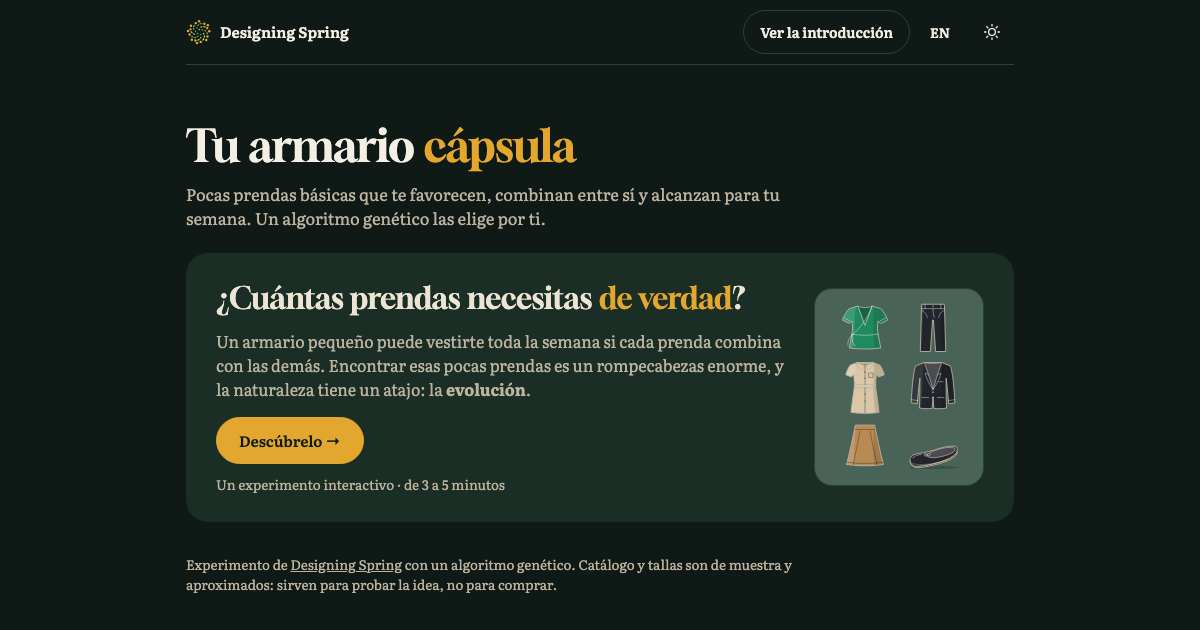
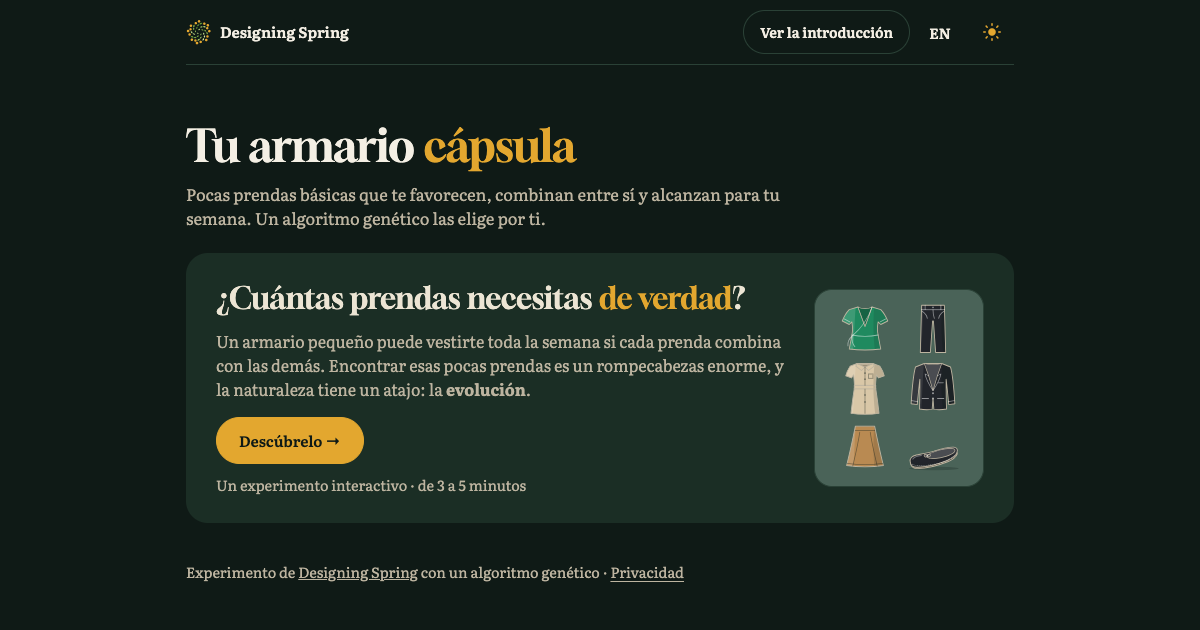
Add files via upload

diff --git a/algoritmo-genetico/vestido-mutante/index.html b/algoritmo-genetico/vestido-mutante/index.html
@@ -270,6 +270,23 @@ input[type=range]{width:100%;accent-color:var(--gold);min-height:44px}
   :root[data-dir="to-night"]::view-transition-new(root) { animation: wipe-right 1.75s cubic-bezier(.77, 0, .175, 1) both; }
   @keyframes wipe-left { from { clip-path: inset(0 100% 0 0); } to { clip-path: inset(0 0 0 0); } }
   @keyframes wipe-right { from { clip-path: inset(0 0 0 100%); } to { clip-path: inset(0 0 0 0); } }
+.priv-btn{background:none;border:0;padding:6px 0;font:inherit;color:inherit;text-decoration:underline;text-underline-offset:3px;cursor:pointer}
+.priv-btn:hover{color:var(--ink)}
+dialog.priv{max-width:min(34em,calc(100vw - 32px));border:1px solid var(--card-line);border-radius:18px;background:var(--card);color:var(--ink);padding:22px 22px 18px}
+dialog.priv::backdrop{background:rgba(0,0,0,.55)}
+.priv h3{margin:0 0 12px;font:400 24px/1.15 Gloock,Georgia,serif}
+.priv p{margin:0 0 10px;font-size:15px;line-height:1.5;color:var(--ink-muted)}
+.priv p b{color:var(--ink);font-weight:600}
+.priv .btn{margin-top:8px}
+@media (max-width:640px){.nav .pills{flex-direction:column-reverse;width:100%}}   /* en el teléfono el botón dorado va primero (15 nov 2026) */
+.pulgar{display:none}
+@media (max-width:640px){   /* en el teléfono, «Siguiente generación» queda abajo, al alcance del pulgar, mientras eliges (15 nov 2026) */
+  .pulgar{display:block;position:fixed;left:0;right:0;bottom:0;z-index:20;padding:10px 16px calc(10px + env(safe-area-inset-bottom));background:color-mix(in srgb,var(--bg) 92%,transparent);border-top:1px solid var(--card-line);transition:transform .25s ease-out}
+  .pulgar .btn{width:100%}
+  .pulgar.fuera{transform:translateY(110%)}
+  body.con-pulgar{padding-bottom:76px}
+}
+@media (prefers-reduced-motion:reduce){.pulgar{transition:none}}
 </style>
 </head>
 <body>
@@ -290,6 +307,8 @@ input[type=range]{width:100%;accent-color:var(--gold);min-height:44px}
 <main id="app"></main>
 <p id="anuncio" class="sr" aria-live="polite"></p>
 <p class="foot" id="foot"></p>
+<dialog class="priv" id="priv" aria-labelledby="privH"></dialog>
+<div class="pulgar fuera" id="pulgar" aria-hidden="true"><button class="btn gold" type="button" tabindex="-1"></button></div>
 </div>
 <script>
 // ---- Contador de uso (GoatCounter): anónimo, sin cookies. El mismo de la semana de comidas (15 nov 2026) ----
@@ -379,7 +398,9 @@ es:{
   toneAdj:{cálido:'cálida',frío:'fría'}, palBase:'Paleta de tu cápsula: base {b}. ', palAcentos:'Acentos: {a}.', y:' y ', fam:{rojizo:'rojizos',amarillo:'amarillos',verde:'verdes',marrón:'marrones',azul:'azules',rosa:'rosas',morado:'morados'}, palSinAcentos:'Sin colores de acento: todo neutro.',
   sinHuerfanas:'Ninguna prenda queda huérfana: cada una aparece en tus conjuntos.', huerfanas:'{n} prenda(s) casi no se usan: {x}.', metalCon:{dorado:'herraje dorado',plateado:'herraje plateado'}, metalBusca:{dorado:'dorado',plateado:'plateado'},
   metalNote:'Metal {m}: favorece tu piel {t}', unMetal:'Todo tu metal es {m}: combina entre sí', metalAdj:{dorado:'dorado',plateado:'plateado'},
-  foot:'Experimento de <a href="https://designingspring.substack.com/">Designing Spring</a> con un algoritmo genético. Catálogo y tallas son de muestra y aproximados: sirven para probar la idea, no para comprar. Contamos visitas de forma anónima, sin cookies, con GoatCounter: solo cuántas personas llegan y hasta qué paso. Nunca lo que eliges.'
+  foot:'Experimento de <a href="https://designingspring.substack.com/">Designing Spring</a> con un algoritmo genético · <button class="priv-btn" type="button" data-priv>Privacidad</button>',
+  privH:'Privacidad', privCerrar:'Cerrar',
+  priv:['<b>Lo que respondes no sale de tu dispositivo.</b> Tus medidas, tu subtono y lo que eliges se quedan en este navegador; no se envían a ningún lado.','<b>Tu navegador recuerda</b> tus respuestas, el idioma y si prefieres día o noche, para la próxima vez. Se borran si limpias los datos de este sitio.','<b>Contamos visitas de forma anónima,</b> sin cookies, con GoatCounter: solo cuántas personas llegan y hasta qué paso. Nunca lo que eliges.','Las letras se cargan desde Google Fonts, como en casi cualquier página.','<b>Catálogo y tallas son de muestra</b> y aproximados: sirven para probar la idea, no para comprar.']
 },
 en:{
   title:'The <em>mutant</em> dress',
@@ -446,7 +467,9 @@ en:{
   toneAdj:{cálido:'warm',frío:'cool'}, palBase:'Your capsule palette: {b} base. ', palAcentos:'Accents: {a}.', y:' and ', fam:{rojizo:'reds',amarillo:'yellows',verde:'greens',marrón:'browns',azul:'blues',rosa:'pinks',morado:'purples'}, palSinAcentos:'No accent colors: all neutral.',
   sinHuerfanas:'No orphan pieces: every one shows up in your outfits.', huerfanas:'{n} piece(s) barely get used: {x}.', metalCon:{dorado:'gold hardware',plateado:'silver hardware'}, metalBusca:{dorado:'gold',plateado:'silver'},
   metalNote:'{m} metal: flatters your {t} skin', unMetal:'All your metal is {m}: it all matches', metalAdj:{dorado:'gold',plateado:'silver'},
-  foot:'A <a href="https://designingspring.substack.com/">Designing Spring</a> experiment with a genetic algorithm. Catalog and sizes are samples and approximate: they test the idea, not a shopping list. We count visits anonymously, without cookies, with GoatCounter: only how many people arrive and how far they get. Never what you choose.'
+  foot:'A <a href="https://designingspring.substack.com/">Designing Spring</a> experiment with a genetic algorithm · <button class="priv-btn" type="button" data-priv>Privacy</button>',
+  privH:'Privacy', privCerrar:'Close',
+  priv:['<b>What you answer never leaves your device.</b> Your measurements, undertone and choices stay in this browser; they are not sent anywhere.','<b>Your browser remembers</b> your answers, the language and whether you prefer day or night, for next time. They are erased if you clear this site’s data.','<b>We count visits anonymously,</b> without cookies, with GoatCounter: only how many people arrive and how far they get. Never what you choose.','The fonts load from Google Fonts, as on almost any page.','<b>Catalog and sizes are samples</b> and approximate: they test the idea, not a shopping list.']
 }};
 let LANG = new URLSearchParams(location.search).get('lang') === 'en' ? 'en' : 'es';
 const t = (k, v) => { let s = k.split('.').reduce((o, p) => o && o[p], S[LANG]); if (s == null) s = k; if (v) for (const x in v) s = String(s).replace('{' + x + '}', v[x]); return s; };
@@ -912,7 +935,7 @@ function marco(){
   if (window.paintVine) paintVine(n);
   document.getElementById('steplabel').textContent = paso in t('bonusSteps') ? t('bonus', { s: t('bonusSteps')[paso] }) : t('stepOf', { n, s: t('steps')[n - 1] });
 }
-function render(){ marco(); track({ 1: 'vestido-1-medidas', 2: 'vestido-2-subtono', 3: 'vestido-3-estilo', 6: 'vestido-4-rondas' }[paso] || 'vestido-paso-' + paso); [p1, p2, p3, null, null, p6, null][paso - 1](); }
+function render(){ pulgar(null); marco(); track({ 1: 'vestido-1-medidas', 2: 'vestido-2-subtono', 3: 'vestido-3-estilo', 6: 'vestido-4-rondas' }[paso] || 'vestido-paso-' + paso); [p1, p2, p3, null, null, p6, null][paso - 1](); }
 var autoT = 0;
 function anunciar(x){ const a = document.getElementById('anuncio'); if (!a) return; a.textContent = ''; setTimeout(() => { a.textContent = x; }, 40); }
 function ir(n){ if (autoT){ clearTimeout(autoT); autoT = 0; if (M) M.auto = false; } introN = null; paso = n; render(); window.scrollTo({ top: Math.max(0, document.getElementById('app').offsetTop - 70), behavior: matchMedia('(prefers-reduced-motion: reduce)').matches ? 'auto' : 'smooth' }); }
@@ -1663,6 +1686,7 @@ function p6(){
   });
   // se ve ronda por ronda: marca a los dos elegidos, espera, y nacen sus hijos (15 nov 2026; antes saltaba directo al final)
   document.getElementById('mAuto').onclick = autoPaso;
+  pulgar(document.getElementById('mSig'));
   document.getElementById('mSig').onclick = () => {
     if (ultima){ if (M.elegidos.length !== 1){ document.getElementById('mErr').textContent = t('mut_faltaUno'); return; } M.final = M.actual.find(v => v.id === M.elegidos[0]); return ir(6); }
     if (M.elegidos.length !== 2){ document.getElementById('mErr').textContent = t('mut_faltan'); return; }
@@ -1787,7 +1811,7 @@ function verIntro(n){
   const fig = (g, txt, tam, res = []) => `<figure>${vestidoSVG(vIntro(g), res, tam)}<figcaption>${txt}</figcaption></figure>`;
   const esc_ = [
     `<div class="intro-cover"><div><h2>${L.c_h}</h2><p class="lead" style="margin:0 0 16px">${L.c_p}</p><button class="btn gold" type="button" data-intro="1">${L.c_btn}</button><p class="intro-meta">${L.c_meta}</p></div>
-     <div class="vest" aria-hidden="true">${vestidoSVG(vIntro({ vuelo:'rosa', escote:'corazon', manga:'tirantes', color:'coral', color2:'blanco roto' }), [])}</div></div>`,
+     <div class="vest" aria-hidden="true">${vestidoSVG(vIntro({ vuelo:'lirio', escote:'halter', color:'fucsia', color2:'esmeralda', largo:'tobillo' }), [])}</div></div>`,
     `<h2>${L.s1_h}</h2><p>${L.s1_p}</p>
      <div class="intro-fila">${fig({ vuelo:'lineaA', color:'lavanda', manga:'sin' }, L.s1_m[0], 80)}${fig({ vuelo:'lineaA', color:'lavanda', manga:'globo' }, L.s1_m[1], 80, ['manga'])}${fig({ vuelo:'lineaA', color:'lavanda', manga:'monstera' }, L.s1_m[2], 80, ['manga'])}</div>
      <p>${L.s1_p2}</p><div class="mult">${L.s1_box.map(([n, w], i) => `<div class="box"><b>${n}</b><span>${w}</span></div>${i < 2 ? '<span class="x">×</span>' : i === 2 ? '<span class="x">=</span>' : ''}`).join('')}</div>
@@ -1815,6 +1839,29 @@ document.getElementById('skyBtn').onclick = () => {
 { let vista = false; try { vista = localStorage.getItem(INTRO_VISTA) === '1'; } catch (e) {}
   try { const f = JSON.parse(localStorage.getItem(FINAL_KEY) || 'null'); if (f && f.g && vista){ M = { P: prepararPerfil(st), final: f, ronda: RONDAS, candados: [] }; paso = 6; } } catch (e) {}
   if (!vista || new URLSearchParams(location.search).has('intro')) verIntro(0); else render(); }
+
+// Privacidad: el pie solo dice de quién es el experimento; lo demás vive en esta ventana (15 nov 2026)
+document.addEventListener('click', e => {
+  if (!e.target.closest('[data-priv]')) return;
+  const d = document.getElementById('priv');
+  d.innerHTML = `<h3 id="privH">${t('privH')}</h3>${t('priv').map(x => `<p>${x}</p>`).join('')}<button class="btn" type="button" data-cerrar>${t('privCerrar')}</button>`;
+  d.querySelector('[data-cerrar]').onclick = () => d.close();
+  d.showModal(); d.querySelector('[data-cerrar]').focus(); track('vestido-privacidad');
+});
+document.getElementById('priv').addEventListener('click', e => { if (e.target.id === 'priv') e.target.close(); });   // tocar fuera la cierra
+
+// el botón dorado de las rondas, repetido abajo en el teléfono; se va cuando el de la página entra en pantalla
+var pulgarObs = null;   // var: render() la usa antes de llegar a esta línea
+function pulgar(orig){
+  const bar = document.getElementById('pulgar'), b = bar.firstElementChild;
+  if (pulgarObs) pulgarObs.disconnect();
+  if (!orig){ bar.classList.add('fuera'); document.body.classList.remove('con-pulgar'); return; }
+  b.textContent = orig.textContent; b.disabled = orig.disabled; if (orig.hasAttribute('aria-disabled')) b.setAttribute('aria-disabled', orig.getAttribute('aria-disabled')); else b.removeAttribute('aria-disabled');
+  b.onclick = () => orig.click();
+  document.body.classList.add('con-pulgar');
+  pulgarObs = new IntersectionObserver(es => bar.classList.toggle('fuera', es[0].isIntersecting), { rootMargin: '0px 0px -80px 0px' });
+  pulgarObs.observe(orig);
+}
 </script>
 </body>
 </html>

diff --git a/algoritmo-genetico/armario-capsula/index.html b/algoritmo-genetico/armario-capsula/index.html
@@ -271,6 +271,15 @@ input[type=range]{width:100%;accent-color:var(--gold);min-height:44px}
   @keyframes wipe-right { from { clip-path: inset(0 0 0 100%); } to { clip-path: inset(0 0 0 0); } }
 .a-vestido{color:var(--gold-ink);font-weight:600;text-decoration:underline;text-underline-offset:3px;display:inline-block;padding:10px 0}
 .a-vestido:hover{text-decoration-thickness:2px}
+.priv-btn{background:none;border:0;padding:6px 0;font:inherit;color:inherit;text-decoration:underline;text-underline-offset:3px;cursor:pointer}
+.priv-btn:hover{color:var(--ink)}
+dialog.priv{max-width:min(34em,calc(100vw - 32px));border:1px solid var(--card-line);border-radius:18px;background:var(--card);color:var(--ink);padding:22px 22px 18px}
+dialog.priv::backdrop{background:rgba(0,0,0,.55)}
+.priv h3{margin:0 0 12px;font:400 24px/1.15 Gloock,Georgia,serif}
+.priv p{margin:0 0 10px;font-size:15px;line-height:1.5;color:var(--ink-muted)}
+.priv p b{color:var(--ink);font-weight:600}
+.priv .btn{margin-top:8px}
+@media (max-width:640px){.nav .pills{flex-direction:column-reverse;width:100%}}   /* en el teléfono el botón dorado va primero (15 nov 2026) */
 </style>
 </head>
 <body>
@@ -290,6 +299,7 @@ input[type=range]{width:100%;accent-color:var(--gold);min-height:44px}
 <div class="steps" aria-hidden="true"><i></i><i></i><i></i><i></i><i></i></div>
 <main id="app"></main>
 <p class="foot" id="foot"></p>
+<dialog class="priv" id="priv" aria-labelledby="privH"></dialog>
 </div>
 <script>
 // ---- Contador de uso (GoatCounter): anónimo, sin cookies. El mismo de la semana de comidas (15 nov 2026) ----
@@ -379,7 +389,9 @@ es:{
   toneAdj:{cálido:'cálida',frío:'fría'}, palBase:'Paleta de tu cápsula: base {b}. ', palAcentos:'Acentos: {a}.', y:' y ', fam:{rojizo:'rojizos',amarillo:'amarillos',verde:'verdes',marrón:'marrones',azul:'azules',rosa:'rosas',morado:'morados'}, palSinAcentos:'Sin colores de acento: todo neutro.',
   sinHuerfanas:'Ninguna prenda queda huérfana: cada una aparece en tus conjuntos.', huerfanas:'{n} prenda(s) casi no se usan: {x}.', metalCon:{dorado:'herraje dorado',plateado:'herraje plateado'}, metalBusca:{dorado:'dorado',plateado:'plateado'},
   metalNote:'Metal {m}: favorece tu piel {t}', unMetal:'Todo tu metal es {m}: combina entre sí', metalAdj:{dorado:'dorado',plateado:'plateado'},
-  foot:'Experimento de <a href="https://designingspring.substack.com/">Designing Spring</a> con un algoritmo genético. Catálogo y tallas son de muestra y aproximados: sirven para probar la idea, no para comprar. Contamos visitas de forma anónima, sin cookies, con GoatCounter: solo cuántas personas llegan y hasta qué paso. Nunca lo que eliges.'
+  foot:'Experimento de <a href="https://designingspring.substack.com/">Designing Spring</a> con un algoritmo genético · <button class="priv-btn" type="button" data-priv>Privacidad</button>',
+  privH:'Privacidad', privCerrar:'Cerrar',
+  priv:['<b>Lo que respondes no sale de tu dispositivo.</b> Tus medidas, tu subtono y lo que eliges se quedan en este navegador; no se envían a ningún lado.','<b>Tu navegador recuerda</b> tus respuestas, el idioma y si prefieres día o noche, para la próxima vez. Se borran si limpias los datos de este sitio.','<b>Contamos visitas de forma anónima,</b> sin cookies, con GoatCounter: solo cuántas personas llegan y hasta qué paso. Nunca lo que eliges.','Las letras se cargan desde Google Fonts, como en casi cualquier página.','<b>Catálogo y tallas son de muestra</b> y aproximados: sirven para probar la idea, no para comprar.']
 },
 en:{
   title:'Your <em>capsule</em> wardrobe',
@@ -446,7 +458,9 @@ en:{
   toneAdj:{cálido:'warm',frío:'cool'}, palBase:'Your capsule palette: {b} base. ', palAcentos:'Accents: {a}.', y:' and ', fam:{rojizo:'reds',amarillo:'yellows',verde:'greens',marrón:'browns',azul:'blues',rosa:'pinks',morado:'purples'}, palSinAcentos:'No accent colors: all neutral.',
   sinHuerfanas:'No orphan pieces: every one shows up in your outfits.', huerfanas:'{n} piece(s) barely get used: {x}.', metalCon:{dorado:'gold hardware',plateado:'silver hardware'}, metalBusca:{dorado:'gold',plateado:'silver'},
   metalNote:'{m} metal: flatters your {t} skin', unMetal:'All your metal is {m}: it all matches', metalAdj:{dorado:'gold',plateado:'silver'},
-  foot:'A <a href="https://designingspring.substack.com/">Designing Spring</a> experiment with a genetic algorithm. Catalog and sizes are samples and approximate: they test the idea, not a shopping list. We count visits anonymously, without cookies, with GoatCounter: only how many people arrive and how far they get. Never what you choose.'
+  foot:'A <a href="https://designingspring.substack.com/">Designing Spring</a> experiment with a genetic algorithm · <button class="priv-btn" type="button" data-priv>Privacy</button>',
+  privH:'Privacy', privCerrar:'Close',
+  priv:['<b>What you answer never leaves your device.</b> Your measurements, undertone and choices stay in this browser; they are not sent anywhere.','<b>Your browser remembers</b> your answers, the language and whether you prefer day or night, for next time. They are erased if you clear this site’s data.','<b>We count visits anonymously,</b> without cookies, with GoatCounter: only how many people arrive and how far they get. Never what you choose.','The fonts load from Google Fonts, as on almost any page.','<b>Catalog and sizes are samples</b> and approximate: they test the idea, not a shopping list.']
 }};
 let LANG = new URLSearchParams(location.search).get('lang') === 'en' ? 'en' : 'es';
 const t = (k, v) => { let s = k.split('.').reduce((o, p) => o && o[p], S[LANG]); if (s == null) s = k; if (v) for (const x in v) s = String(s).replace('{' + x + '}', v[x]); return s; };
@@ -1362,6 +1376,16 @@ document.getElementById('skyBtn').onclick = () => {
   const vt = document.startViewTransition(cambiar); vt.ready.catch(() => {}); vt.finished.catch(() => {});
 };
 { let vista = false; try { vista = localStorage.getItem(INTRO_VISTA) === '1'; } catch (e) {} if (!vista || new URLSearchParams(location.search).has('intro')) verIntro(0); else render(); }
+
+// Privacidad: el pie solo dice de quién es el experimento; lo demás vive en esta ventana (15 nov 2026)
+document.addEventListener('click', e => {
+  if (!e.target.closest('[data-priv]')) return;
+  const d = document.getElementById('priv');
+  d.innerHTML = `<h3 id="privH">${t('privH')}</h3>${t('priv').map(x => `<p>${x}</p>`).join('')}<button class="btn" type="button" data-cerrar>${t('privCerrar')}</button>`;
+  d.querySelector('[data-cerrar]').onclick = () => d.close();
+  d.showModal(); d.querySelector('[data-cerrar]').focus(); track('armario-privacidad');
+});
+document.getElementById('priv').addEventListener('click', e => { if (e.target.id === 'priv') e.target.close(); });   // tocar fuera la cierra
 </script>
 </body>
 </html>
